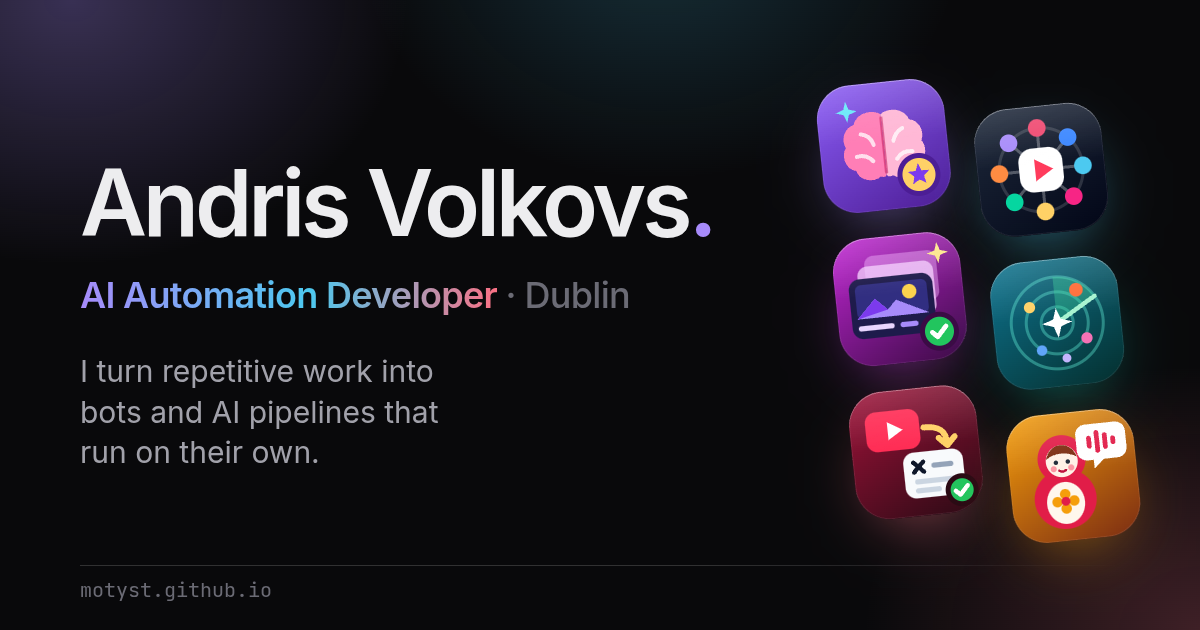
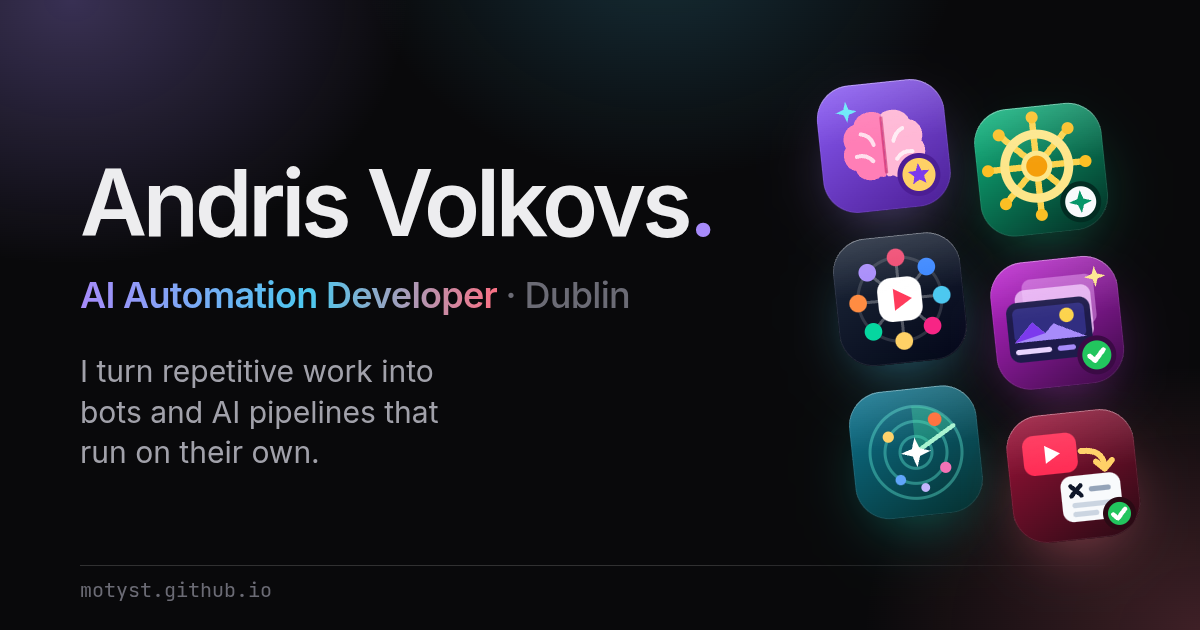
Add Helm project; MCP, Claude Code and Docker in skills; refresh share image

Changed region(s): [[0.6783, 0.1508, 0.9558, 0.8746]]

diff --git a/src/data/ui-icons.ts b/src/data/ui-icons.ts
@@ -30,6 +30,11 @@ export const brand: Record<string, string> = {
   html5: 'M1.5 0h21l-1.91 21.563L11.977 24l-8.564-2.438L1.5 0zm7.031 9.75l-.232-2.718 10.059.003.23-2.622L5.412 4.41l.698 8.01h9.126l-.326 3.426-2.91.804-2.955-.81-.188-2.11H6.248l.33 4.171L12 19.351l5.379-1.443.744-8.157H8.531z',
   git: 'M13.09 23.549a1.54 1.54 0 0 1-2.18 0L.451 13.089a1.54 1.54 0 0 1 0-2.179l7.191-7.19 2.733 2.733a1.85 1.85 0 0 0 .964 2.326v6.66a1.849 1.849 0 1 0 1.54 0V8.957l2.508 2.508a1.85 1.85 0 1 0 1.09-1.09l-2.634-2.634a1.85 1.85 0 0 0-2.378-2.377L8.73 2.63 10.91.451a1.54 1.54 0 0 1 2.179 0l10.459 10.46a1.54 1.54 0 0 1 0 2.179z',
   powershell: 'M23.181 2.974c.568 0 .923.463.792 1.035l-3.659 15.982c-.13.572-.697 1.035-1.265 1.035H.819c-.568 0-.923-.463-.792-1.035L3.686 4.009c.13-.572.697-1.035 1.265-1.035zm-8.375 9.346c.251-.394.227-.905-.09-1.243L9.122 5.125c-.38-.404-1.037-.407-1.466-.003-.429.402-.468 1.056-.088 1.46l4.662 4.96v.11l-7.42 5.374c-.45.327-.533.977-.187 1.453.346.476.991.597 1.44.27l8.229-5.91c.28-.196.438-.365.514-.52zm-2.796 4.399a.928.928 0 00-.934.923c0 .51.418.923.934.923h4.433a.928.928 0 00.934-.923.928.928 0 00-.934-.923z',
+  hono: 'M12.445.002a45.529 45.529 0 0 0-5.252 8.146 8.595 8.595 0 0 1-.555-.53 27.796 27.796 0 0 0-1.205-1.542 8.762 8.762 0 0 0-1.251 2.12 20.743 20.743 0 0 0-1.448 5.88 8.867 8.867 0 0 0 .338 3.468c1.312 3.48 3.794 5.593 7.445 6.337 3.055.438 5.755-.333 8.097-2.312 2.677-2.59 3.359-5.634 2.047-9.132a33.287 33.287 0 0 0-2.988-5.59A91.34 91.34 0 0 0 12.615.053a.216.216 0 0 0-.17-.051Zm-.336 3.906a50.93 50.93 0 0 1 4.794 6.552c.448.767.817 1.57 1.108 2.41.606 2.386-.044 4.354-1.951 5.904-1.845 1.298-3.87 1.683-6.072 1.156-2.376-.737-3.75-2.335-4.121-4.794a5.107 5.107 0 0 1 .242-2.266c.358-.908.79-1.774 1.3-2.601l1.446-2.121a397.33 397.33 0 0 0 3.254-4.24Z',
+  docker: 'M13.983 11.078h2.119a.186.186 0 00.186-.185V9.006a.186.186 0 00-.186-.186h-2.119a.185.185 0 00-.185.185v1.888c0 .102.083.185.185.185m-2.954-5.43h2.118a.186.186 0 00.186-.186V3.574a.186.186 0 00-.186-.185h-2.118a.185.185 0 00-.185.185v1.888c0 .102.082.185.185.185m0 2.716h2.118a.187.187 0 00.186-.186V6.29a.186.186 0 00-.186-.185h-2.118a.185.185 0 00-.185.185v1.887c0 .102.082.185.185.186m-2.93 0h2.12a.186.186 0 00.184-.186V6.29a.185.185 0 00-.185-.185H8.1a.185.185 0 00-.185.185v1.887c0 .102.083.185.185.186m-2.964 0h2.119a.186.186 0 00.185-.186V6.29a.185.185 0 00-.185-.185H5.136a.186.186 0 00-.186.185v1.887c0 .102.084.185.186.186m5.893 2.715h2.118a.186.186 0 00.186-.185V9.006a.186.186 0 00-.186-.186h-2.118a.185.185 0 00-.185.185v1.888c0 .102.082.185.185.185m-2.93 0h2.12a.185.185 0 00.184-.185V9.006a.185.185 0 00-.184-.186h-2.12a.185.185 0 00-.184.185v1.888c0 .102.083.185.185.185m-2.964 0h2.119a.185.185 0 00.185-.185V9.006a.185.185 0 00-.184-.186h-2.12a.186.186 0 00-.186.186v1.887c0 .102.084.185.186.185m-2.92 0h2.12a.185.185 0 00.184-.185V9.006a.185.185 0 00-.184-.186h-2.12a.185.185 0 00-.184.185v1.888c0 .102.082.185.185.185M23.763 9.89c-.065-.051-.672-.51-1.954-.51-.338.001-.676.03-1.01.087-.248-1.7-1.653-2.53-1.716-2.566l-.344-.199-.226.327c-.284.438-.49.922-.612 1.43-.23.97-.09 1.882.403 2.661-.595.332-1.55.413-1.744.42H.751a.751.751 0 00-.75.748 11.376 11.376 0 00.692 4.062c.545 1.428 1.355 2.48 2.41 3.124 1.18.723 3.1 1.137 5.275 1.137.983.003 1.963-.086 2.93-.266a12.248 12.248 0 003.823-1.389c.98-.567 1.86-1.288 2.61-2.136 1.252-1.418 1.998-2.997 2.553-4.4h.221c1.372 0 2.215-.549 2.68-1.009.309-.293.55-.65.707-1.046l.098-.288Z',
+  raspberrypi: 'm19.8955 10.8961-.1726-.3028c.0068-2.1746-1.0022-3.061-2.1788-3.7348.356-.0938.7237-.1711.8245-.6182.6118-.1566.7397-.4398.8011-.7398.16-.1066.6955-.4061.6394-.9211.2998-.2069.4669-.4725.3819-.8487.3222-.3515.407-.6419.2702-.9096.3868-.4805.2152-.7295.05-.9817.2897-.5254.0341-1.0887-.7758-.9944-.3221-.4733-1.0244-.3659-1.133-.3637-.1215-.1519-.2819-.2821-.7755-.219-.3197-.2851-.6771-.2364-1.0458-.0964-.4378-.3403-.7275-.0675-1.0584.0356-.53-.1706-.6513.0631-.9117.1583-.5781-.1203-.7538.1416-1.0309.4182l-.3224-.0063c-.8719.5061-1.305 1.5366-1.4585 2.0664-.1536-.5299-.5858-1.5604-1.4575-2.0664l-.3223.0063C9.942.5014 9.7663.2394 9.1883.3597 8.9279.2646 8.807.0309 8.2766.2015c-.2172-.0677-.417-.2084-.6522-.2012l.0004.0002C7.5017.0041 7.369.049 7.2185.166c-.3688-.1401-.7262-.1887-1.0459.0964-.4936-.0631-.654.0671-.7756.219C5.2887.4791 4.5862.3717 4.264.845c-.8096-.0943-1.0655.4691-.7756.9944-.1653.2521-.3366.5013.05.9819-.1367.2677-.0519.5581.2703.9096-.085.3763.0822.6418.3819.8487-.0561.515.4795.8144.6394.9211.0614.3001.1894.5832.8011.7398.1008.4472.4685.5244.8245.6183-1.1766.6737-2.1856 1.56-2.1788 3.7348l-.1724.3028c-1.3491.8082-2.5629 3.4056-.6648 5.5167.124.6609.3319 1.1355.5171 1.6609.2769 2.117 2.0841 3.1082 2.5608 3.2255.6984.524 1.4423 1.0212 2.449 1.3696.949.964 1.977 1.3314 3.0107 1.3308.0152 0 .0306.0002.0457 0 1.0337.0006 2.0618-.3668 3.0107-1.3308 1.0067-.3483 1.7506-.8456 2.4491-1.3696.4766-.1173 2.2838-1.1085 2.5607-3.2255.1851-.5253.3931-1 .517-1.6609 1.8981-2.1113.6843-4.7089-.6649-5.517zm-1.0386-.3715c-.0704.8759-4.6354-3.0504-3.8472-3.1808 2.1391-.3558 3.9191.896 3.8472 3.1808zm-2.0155 4.3649c-1.1481.7409-2.8025.2626-3.6953-1.0681-.8928-1.3306-.6858-3.0101.4623-3.7509 1.1481-.7409 2.8025-.2627 3.6953 1.068.8927 1.3307.6858 3.0101-.4623 3.751zM13.6591 1.3721c.0396.1967.0843.321.1354.3577.2537-.272.4611-.5506.7878-.8123.0011.1537-.0776.3205.1169.4425.1752-.2356.4119-.4459.7263-.6244-.1514.2611-.026.3404.0554.4486.24-.2059.4681-.4144.9109-.5759-.121.1474-.2902.2914-.1108.4607.2473-.1544.496-.3086 1.0833-.4183-.1323.1475-.4059.295-.2401.4426.3104-.1186.6539-.2047 1.034-.2546-.182.1496-.3337.2963-.1846.4122.3323-.1022.7899-.2398 1.2372-.1212l-.2832.2849c-.0314.0382.6623.0297 1.1202.0364-.167.2321-.3375.4562-.437.8548.0454.0459.2723.0204.4862 0-.2194.4618-.6004.5783-.6893.776.134.1015.32.075.5232.006-.158.3254-.4892.5484-.7509.8123.0662.047.1818.075.4555.0425-.2418.257-.5339.492-.8802.7032.0614.0708.2722.0681.4678.0727-.3136.3069-.7173.466-1.0955.6668.1885.1288.3234.0988.4678.097-.2676.2198-.7225.3342-1.1448.4668.0803.1249.1607.1589.3324.194-.447.2473-1.0873.1343-1.2679.2607.0435.1243.1665.2053.3139.2728-.7197.0418-2.6879-.0262-3.0652-1.5156.7367-.8094 2.0813-1.7593 4.394-2.934-1.7994.6022-3.4229 1.405-4.7817 2.5096-1.5978-.7436-.4965-2.6197.283-3.3645zm-1.6126 5.3718c1.1329-.0123 2.5356.8325 2.53 1.6286-.005.7027-.9851 1.2715-2.5213 1.2607-1.5043-.0177-2.5172-.7148-2.5137-1.3957.003-.5603 1.2282-1.5263 2.505-1.4936zm-5.7646-.6006c.1717-.0351.252-.0692.3323-.194-.4223-.1327-.8772-.247-1.1448-.4668.1444.0018.2792.0318.4678-.097-.3783-.2008-.782-.3599-1.0956-.6668.1955-.0048.4064-.002.4677-.0728-.3462-.2113-.6383-.4463-.8801-.7033.2738.0325.3893.0045.4555-.0425-.2617-.264-.593-.487-.7509-.8123.2032.069.3892.0954.5232-.006-.089-.1977-.47-.3142-.6894-.776.214.0204.4409.0459.4863 0-.0994-.3985-.2698-.6226-.4369-.8547.4579-.0067 1.1516.0018 1.1202-.0364l-.2831-.2849c.4472-.1186.9049.019 1.2371.1213.1492-.1159-.0026-.2626-.1847-.4123.3801.05.7236.1361 1.034.2547.1659-.1476-.1076-.2951-.24-.4426.5872.1097.8361.2639 1.0833.4183.1794-.1694.0103-.3133-.1108-.4607.4428.1615.6709.37.911.5759.0814-.1082.2068-.1875.0554-.4486.3143.1785.5511.3888.7263.6244.1945-.122.1159-.2888.1169-.4426.3267.2618.534.5404.7879.8124.0511-.0366.0959-.161.1354-.3577.7794.7448 1.8807 2.6208.2831 3.3646-1.3589-1.1039-2.9817-1.9064-4.78-2.5086 2.3115 1.174 3.6556 2.1239 4.392 2.9328-.3773 1.4895-2.3455 1.5575-3.0651 1.5157.1473-.0676.2703-.1485.3139-.2728-.1806-.1264-.8209-.0134-1.2679-.2607zm2.8175 1.1334c.7881.1304-3.7769 4.0567-3.8472 3.1809-.0719-2.2846 1.7079-3.5367 3.8472-3.1809zm-4.847 8.7567c-1.1094-.8789-1.4668-3.4529.5901-4.6097 1.2394-.3273.4184 5.051-.5901 4.6097zm4.2656 4.5989c-.6257.3719-2.1452.2187-3.2252-1.3095-.7283-1.2823-.6345-2.5872-.123-2.9705.7648-.4589 1.9464.1609 2.8559 1.2003.7923.9405 1.1536 2.5927.4923 3.0797zm-1.2415-5.6086c-1.1481-.7409-1.3551-2.4203-.4623-3.7511.8928-1.3307 2.5472-1.8089 3.6952-1.068 1.1481.7409 1.3551 2.4203.4623 3.7509-.8926 1.3308-2.5471 1.809-3.6952 1.0682zm4.7948 8.2279c-1.3763.0584-2.7258-1.1105-2.7081-1.5157-.0206-.594 1.6758-1.0578 2.782-1.0306 1.1131-.0479 2.6068.3531 2.6097.8851.0184.5166-1.3547 1.6838-2.6836 1.6612zm2.7584-5.8578c.0081 1.3899-1.226 2.5225-2.7562 2.5299-1.5302.0073-2.7773-1.1135-2.7854-2.5033v-.0265c-.008-1.3899 1.2259-2.5226 2.7562-2.5299 1.5302-.0073 2.7773 1.1134 2.7853 2.5033a.7794.7794 0 0 1 .0001.0265zm3.855 2.0029c-1.186 1.6208-2.7916 1.684-3.3896 1.2325-.6255-.5811-.148-2.3854.7094-3.3747v-.0003c.9812-1.0912 2.0302-1.8037 2.7609-1.2469.4919.4828.7805 2.3008-.0807 3.3894zm1.0724-3.4301c-1.0086.4413-1.8298-4.9372-.5901-4.61 2.0568 1.1569 1.6994 3.731.5901 4.61zm-.0256-8.3279h.2985v-.5304h.2986c.1502 0 .2053.0624.2262.2052.0152.1088.0113.2395.0477.3253h.2984c-.0533-.0763-.0515-.2358-.0571-.3213-.0097-.1373-.0513-.2796-.1977-.3176v-.0037c.1502-.061.2149-.1807.2149-.341 0-.2048-.1539-.3738-.3974-.3738h-.732v1.3573zm.2985-1.1255h.3269c.1333 0 .2054.0573.2054.188 0 .1369-.0721.1942-.2054.1942H20.03v-.3822zm-1.0337.4633c0 .7009.5682 1.2694 1.2695 1.2694s1.2695-.5684 1.2695-1.2694c0-.7013-.5683-1.2697-1.2695-1.2697-.7013 0-1.2695.5684-1.2695 1.2697zm2.3275 0c0 .5845-.4737 1.058-1.058 1.058s-1.058-.4735-1.058-1.058c0-.5849.4737-1.058 1.058-1.058s1.058.4731 1.058 1.058z',
+  mcp: 'M13.85 0a4.16 4.16 0 0 0-2.95 1.217L1.456 10.66a.835.835 0 0 0 0 1.18.835.835 0 0 0 1.18 0l9.442-9.442a2.49 2.49 0 0 1 3.541 0 2.49 2.49 0 0 1 0 3.541L8.59 12.97l-.1.1a.835.835 0 0 0 0 1.18.835.835 0 0 0 1.18 0l.1-.098 7.03-7.034a2.49 2.49 0 0 1 3.542 0l.049.05a2.49 2.49 0 0 1 0 3.54l-8.54 8.54a1.96 1.96 0 0 0 0 2.755l1.753 1.753a.835.835 0 0 0 1.18 0 .835.835 0 0 0 0-1.18l-1.753-1.753a.266.266 0 0 1 0-.394l8.54-8.54a4.185 4.185 0 0 0 0-5.9l-.05-.05a4.16 4.16 0 0 0-2.95-1.218c-.2 0-.401.02-.6.048a4.17 4.17 0 0 0-1.17-3.552A4.16 4.16 0 0 0 13.85 0m0 3.333a.84.84 0 0 0-.59.245L6.275 10.56a4.186 4.186 0 0 0 0 5.902 4.186 4.186 0 0 0 5.902 0L19.16 9.48a.835.835 0 0 0 0-1.18.835.835 0 0 0-1.18 0l-6.985 6.984a2.49 2.49 0 0 1-3.54 0 2.49 2.49 0 0 1 0-3.54l6.983-6.985a.835.835 0 0 0 0-1.18.84.84 0 0 0-.59-.245',
+  tailscale: 'M24 12a3 3 0 1 1-6 0 3 3 0 0 1 6 0zm-9 9a3 3 0 1 1-6 0 3 3 0 0 1 6 0zm0-9a3 3 0 1 1-6 0 3 3 0 0 1 6 0zm6-6a3 3 0 1 1 0-6 3 3 0 0 1 0 6zm0-.5a2.5 2.5 0 1 0 0-5 2.5 2.5 0 0 0 0 5zM3 24a3 3 0 1 1 0-6 3 3 0 0 1 0 6zm0-.5a2.5 2.5 0 1 0 0-5 2.5 2.5 0 0 0 0 5zm18 .5a3 3 0 1 1 0-6 3 3 0 0 1 0 6zm0-.5a2.5 2.5 0 1 0 0-5 2.5 2.5 0 0 0 0 5zM6 12a3 3 0 1 1-6 0 3 3 0 0 1 6 0zm9-9a3 3 0 1 1-6 0 3 3 0 0 1 6 0zm-3 2.5a2.5 2.5 0 1 0 0-5 2.5 2.5 0 0 0 0 5zM6 3a3 3 0 1 1-6 0 3 3 0 0 1 6 0zM3 5.5a2.5 2.5 0 1 0 0-5 2.5 2.5 0 0 0 0 5z',
 };
 
 export const line: Record<string, string> = {
@@ -74,6 +79,8 @@ export const skillIcon: Record<string, string> = {
   'Prompt Engineering': 'message-square-text',
   Whisper: 'audio-lines',
   'OpenAI API': 'openai',
+  'Claude Code': 'claude',
+  MCP: 'mcp',
   'Voice AI': 'mic',
   'AI Image Generation': 'image',
   // Bots & Automation
@@ -108,6 +115,10 @@ export const skillIcon: Record<string, string> = {
   Linux: 'linux',
   'VPS Deployment': 'server',
   'Product Design': 'pen-tool',
+  Hono: 'hono',
+  Docker: 'docker',
+  'Raspberry Pi': 'raspberrypi',
+  Tailscale: 'tailscale',
   'Visual Design': 'palette',
   'Design Systems': 'layers',
   JavaScript: 'javascript',

diff --git a/src/data/icons.ts b/src/data/icons.ts
@@ -129,4 +129,15 @@ export const icons: Record<string, ProjectIconArt> = {
       <circle cx="50" cy="50" r="8.5" fill="#22c55e" stroke="#3b0a45" stroke-width="2.5" />
       <path d="M46.4 50.2l2.5 2.5 4.6-5" fill="none" stroke="#fff" stroke-width="2.4" stroke-linecap="round" stroke-linejoin="round" />`,
   },
+  /** Helm: a ship's wheel, with a sparkle badge for the AI agents on board. */
+  wheel: {
+    bg: 'linear-gradient(150deg, #10b981 0%, #022c22 100%)',
+    art: `
+      <path d="M36.0 30.0L53.0 30.0M34.2 34.2L46.3 46.3M30.0 36.0L30.0 53.0M25.8 34.2L13.7 46.3M24.0 30.0L7.0 30.0M25.8 25.8L13.7 13.7M30.0 24.0L30.0 7.0M34.2 25.8L46.3 13.7" stroke="#fcd34d" stroke-width="3.2" stroke-linecap="round" />
+      <g fill="#fbbf24"><circle cx="54.5" cy="30.0" r="3" /><circle cx="47.3" cy="47.3" r="3" /><circle cx="30.0" cy="54.5" r="3" /><circle cx="12.7" cy="47.3" r="3" /><circle cx="5.5" cy="30.0" r="3" /><circle cx="12.7" cy="12.7" r="3" /><circle cx="30.0" cy="5.5" r="3" /><circle cx="47.3" cy="12.7" r="3" /></g>
+      <circle cx="30" cy="30" r="16" fill="none" stroke="#fde68a" stroke-width="4.5" />
+      <circle cx="30" cy="30" r="6.5" fill="#f59e0b" stroke="#fde68a" stroke-width="2.5" />
+      <circle cx="50" cy="50" r="9" fill="#f8fafc" stroke="#022c22" stroke-width="2.5" />
+      <path d="M50 44.2l1.5 4.3 4.3 1.5-4.3 1.5-1.5 4.3-1.5-4.3-4.3-1.5 4.3-1.5z" fill="#059669" />`,
+  },
 };

diff --git a/src/data/skills.ts b/src/data/skills.ts
@@ -5,7 +5,7 @@
  * listed inside its project window. Unlisted skills are left off the homepage.
  */
 export const skillCategories: Record<string, string[]> = {
-  'AI & LLMs': ['Claude API', 'LLMs', 'Prompt Engineering', 'OpenAI API', 'Voice AI', 'Whisper', 'Claude Code', 'AI Workflow Design'],
+  'AI & LLMs': ['Claude API', 'Claude Code', 'MCP', 'LLMs', 'OpenAI API', 'Prompt Engineering', 'Voice AI', 'Whisper', 'AI Workflow Design'],
   'Bots & Automation': [
     'Telegram Bot API',
     'Automation',
@@ -17,7 +17,7 @@ export const skillCategories: Record<string, string[]> = {
     'Analytics',
   ],
   'Backend & Data': ['Python', 'FastAPI', 'Async Python', 'REST APIs', 'WebSockets', 'SQLite', 'SQLAlchemy', 'Real-time Systems'],
-  'Frontend & Ops': ['TypeScript', 'React', 'Cloudflare Workers', 'Streamlit', 'Linux', 'VPS Deployment', 'Product Design'],
+  'Frontend & Ops': ['TypeScript', 'React', 'Docker', 'Cloudflare Workers', 'Streamlit', 'Linux', 'VPS Deployment', 'Product Design'],
 };
 
 export const maxPerGroup = 6;

diff --git a/src/content/projects/helm.md b/src/content/projects/helm.md
@@ -1,0 +1,41 @@
+---
+title: Helm
+summary: A focus board you and your AI agents share
+icon: wheel
+tagline: A self-hosted task board that shows what to do now, and that Claude and ChatGPT can use too, safely and with my approval.
+year: 2026
+status: live
+role: Solo developer, built with Claude Code
+order: 1.5
+accent: '#10b981'
+private: true
+skills: [TypeScript, React, Node.js, Hono, SQLite, MCP, Claude Code, OpenAI API, LLMs, Voice AI, Human-in-the-loop, Real-time Systems, PWA, Docker, Raspberry Pi, Tailscale]
+workflow:
+  - title: Capture
+    icon: mic
+    description: Type with shorthand like "#work !now ~45", or speak, and an LLM turns the recording into task drafts.
+  - title: Focus
+    icon: target
+    description: One task in progress, time against its estimate, and what's up next. Starting another pauses the first.
+  - title: Agents
+    icon: bot
+    description: Claude Code, Claude Desktop or ChatGPT read and update the board over MCP, with scoped tokens and no delete.
+  - title: Approve
+    icon: circle-check
+    description: The assistant suggests an order and proposes changes. Nothing is saved until I tick it.
+  - title: Sync & log
+    icon: radio
+    description: Every change is logged with who made it and appears live on every device.
+highlights:
+  - Claude Code, Claude Desktop and ChatGPT use it over MCP
+  - The AI proposes, I approve, and the log shows both
+  - Runs on a Raspberry Pi at home, reached privately from my phone
+  - About 114 automated tests across 5 packages
+  - Six themes with woodblock-print style landscapes
+---
+
+A self-hosted task board built to stay open all day and answer one question at a glance: what am I doing now, and what's next? The main screen isn't a list but a **Focus view** with one task in progress, and starting another pauses the first. Quick entry understands shorthand, and voice capture turns one spoken ramble into separate task drafts.
+
+Its unusual goal is that **AI agents are users too**. Claude Code, Claude Desktop, ChatGPT or any script can read and update the board through an **MCP server** and a REST API, using scoped, expiring tokens with no delete tool. Inside the app, an assistant suggests the order of work and proposes changes, but nothing is saved until I approve it.
+
+Every write goes through one service layer and one event log, which gives the audit trail, live sync across devices and per-token access in a single design. It's a TypeScript monorepo (React PWA, Hono, SQLite) in one Docker container, running on a **Raspberry Pi** at home over Tailscale. I was the architect and product owner, with Claude Code implementing 11 planned steps that I reviewed one by one.
